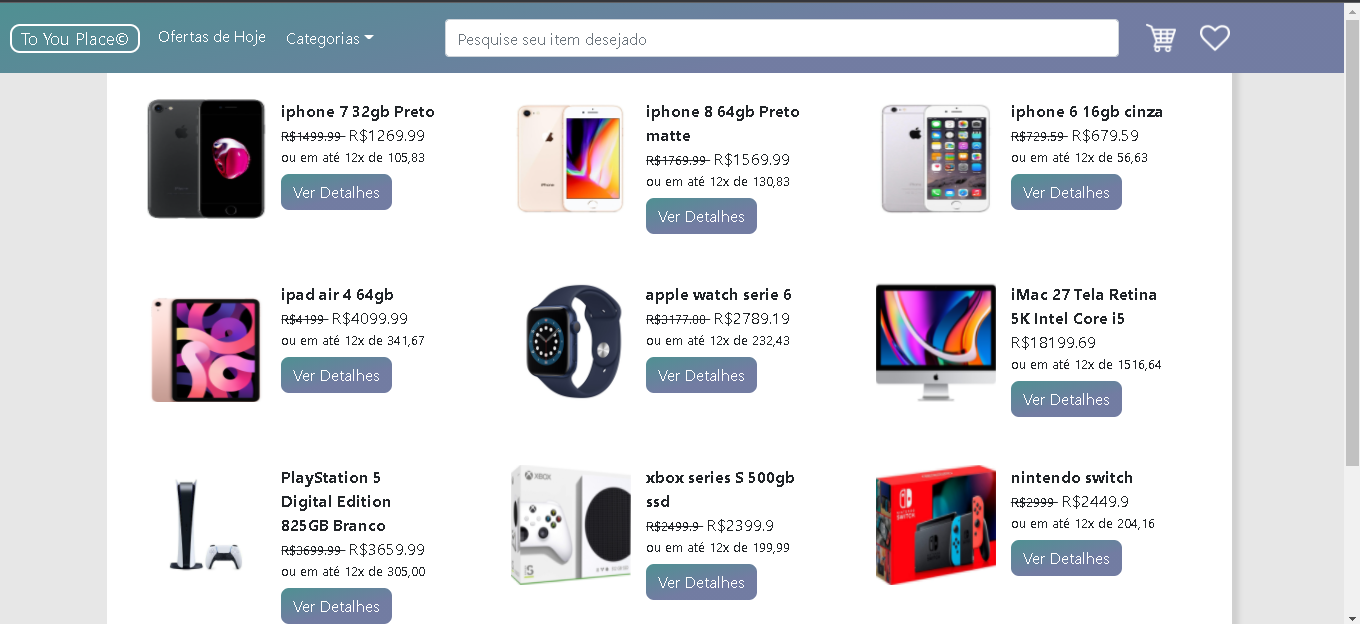
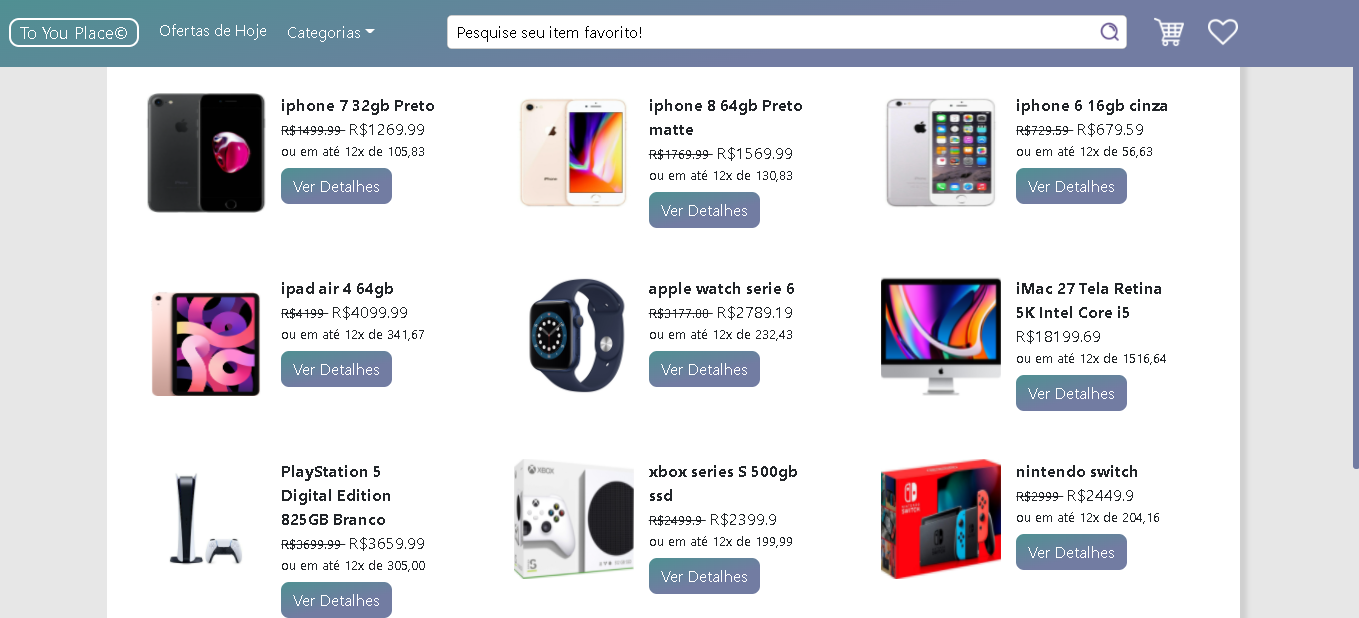
install vue-select; Ajusting input search in the navbar;

diff --git a/src/components/menu/navbar.vue b/src/components/menu/navbar.vue
@@ -20,9 +20,6 @@
           text="Categorias"
           class="m-md-2 dropdown"
         >
-          <b-dropdown-item>First Action</b-dropdown-item>
-          <b-dropdown-item>Second Action</b-dropdown-item>
-          <b-dropdown-item>Third Action</b-dropdown-item>
         </b-dropdown>
         
       </b-col>
@@ -31,7 +28,34 @@
         align-self="center"
         class="p-0"
       >
-        <b-form-input placeholder="Pesquise seu item desejado" />
+        <v-select
+          v-model="item"
+          :options="items"
+          placeholder="Pesquise seu item favorito!"
+          :dropdown-should-open="dropdownShouldOpen">
+
+          <template #open-indicator="{ attributes }">
+            <b-img src="../../assets/img/lupa.png" style="width: 20px;" v-bind="attributes" />
+          </template>
+
+            <template v-slot:no-options="{ search, searching }">
+              <template v-if="searching">
+                Não há resultados para {{ search }}.
+              </template>
+            </template>
+
+            <template v-slot:option="option">
+              <b-row @click="pushToItem(option._id)">
+                <b-col md="auto">
+                  <b-img style="width: 55px; height: 55px;" :src="option.photo[0]" />
+                </b-col>
+                <b-col>
+                  <span>{{option.label}}</span>
+                </b-col>
+              </b-row>
+            </template>
+        </v-select>
+        <!-- <b-form-input placeholder="Pesquise seu item desejado" /> -->
       </b-col>
       <b-col
         md="2"
@@ -91,11 +115,44 @@
 import {  mapGetters } from 'vuex'
 
 export default {
+  data() {
+    return {
+      item: null,
+      items: []
+    }
+  },
+
+  mounted(){
+    this.getProd.map(arr => {
+      this.items.push({
+        label: arr.item,
+        code: arr.item,
+        photo: arr.photo,
+        _id: arr._id
+      })
+    })
+  },
+
   computed: {
     ...mapGetters({
       getCart: 'app/getCart',
-      getFav: 'app/getFav'
+      getFav: 'app/getFav',
+      getProd: 'app/getProducts', 
       })
+  },
+
+  methods: {
+    pushToItem(val){
+      window.location.assign(`/produto/${val}`) 
+    },
+
+    dropdownShouldOpen(VueSelect) {
+      if (this.item !== null) {
+        return VueSelect.open
+      }
+
+      return VueSelect.search.length !== 0 && VueSelect.open
+    },
   },
 }
 

diff --git a/src/views/item.vue b/src/views/item.vue
@@ -51,7 +51,18 @@
             </b-col>
 
             <b-col md="4">
+
                 <div class="box-payment text-center">
+                    <b-row class="text-center p-2">
+                      <b-col>
+                        <span>
+                          <strong>
+                            {{getOneProd.inventory}}
+                          </strong>
+                          Unidades disponiveis. 
+                        </span>
+                      </b-col>
+                    </b-row>
                       <b-img v-if="!fav[0]" class="logo-fav text-left" src="../assets/img/favorito.png" @click="addtoFav(getOneProd)" />
                       <b-img v-else class="logo-fav text-left" src="../assets/img/favorito_2.png" @click="removeFav(getOneProd._id)" />&nbsp;&nbsp;&nbsp;
                     <strong class="value">

diff --git a/src/assets/scss/main.scss b/src/assets/scss/main.scss
@@ -30,3 +30,32 @@ ul {
 body {
   background: rgb(231, 231, 231);
 }
+
+
+::-webkit-scrollbar {
+  width: 7px;
+  height: 7px !important;
+  -webkit-border-radius: 16px;
+  border-radius: 16px;
+}
+
+::-webkit-scrollbar-track-piece {
+  background-color: rgba(217, 217, 217, 0);
+  -webkit-border-radius: 3px;
+  border-radius: 3px;
+}
+
+::-webkit-scrollbar-thumb:vertical {
+  height: 7px;
+  background-color: $menu-color2;
+  -webkit-border-radius: 3px;
+  border-radius: 3px;
+}
+
+::-webkit-scrollbar-thumb:horizontal {
+  width: 7px;
+  background-color: $menu-color2;
+  -webkit-border-radius: 3px;
+  border-radius: 3px;
+
+}

diff --git a/src/assets/scss/components/_vue_alert.scss b/src/assets/scss/components/_vue_alert.scss
@@ -1,5 +1,5 @@
 .swal2-confirm {
-  background-color: $primary !important;
+  background-color: $menu-color2 !important;
   &:focus {
     box-shadow: none !important;
   }
@@ -10,8 +10,8 @@
 
 .swal2-cancel {
   background-color: white !important;
-  color: $primary !important;
-  border: 1px solid $primary !important;
+  color: $menu-color2 !important;
+  border: 1px solid $menu-color2 !important;
   &:focus {
     box-shadow: none !important;
   }

diff --git a/src/assets/scss/components/_select.scss b/src/assets/scss/components/_select.scss
@@ -1,0 +1,20 @@
+.vs__search {
+  background: white !important;
+}
+
+.vs__open-indicator {
+  transform: none !important;
+}
+
+.v-select.vs--single.vs--searchable {
+  background: white !important;
+  border-radius: 5px;
+}
+
+#vs1__listbox li{
+  background: white !important;
+  color: black !important;
+  &:hover {
+    background: rgba(114, 124, 162, 0.452) !important;
+  }
+}

diff --git a/src/main.js b/src/main.js
@@ -6,6 +6,7 @@ import router from './router'
 import './libs/bootstrap'
 import './libs/axios'
 import './libs/vue-alert'
+import './libs/vue-select'
 
 Vue.config.productionTip = false
 require('./assets/scss/index.scss')

diff --git a/src/assets/scss/index.scss b/src/assets/scss/index.scss
@@ -4,3 +4,4 @@
 @import './main.scss';
 @import './components/index';
 @import './pages/index';
+@import './vue-select/vue-select';

diff --git a/src/libs/vue-select.js b/src/libs/vue-select.js
@@ -1,0 +1,4 @@
+import Vue from 'vue'
+import vSelect from 'vue-select'
+
+Vue.component('v-select', vSelect)

diff --git a/src/assets/scss/components/_index.scss b/src/assets/scss/components/_index.scss
@@ -2,3 +2,4 @@
 @import './dropdown';
 @import './buttons';
 @import './vue_alert';
+@import './select';

diff --git a/src/assets/scss/vue-select/_vue-select.scss b/src/assets/scss/vue-select/_vue-select.scss
@@ -1,0 +1,1 @@
+@import "../../../../node_modules/vue-select/src/scss/vue-select.scss";

diff --git a/README.md b/README.md
@@ -8,13 +8,16 @@
 <strong>Libs utilizadas:</strong><br>
 <p>- Vue-router;</p>
 <p>- Vue-simple-alert;</p>
+<p>- Vue-select;</p>
 <p>- Bootstrap-vue;</p>
 <p>- Axios;</p>
 <p>- Vuex;</p>
 <p>- Vuex-persist;</p>
 
+
 <br>
 <img src="./git_img/index.png"><br>
+<img src="./git_img/search.png"><br>
 <img src="./git_img/produto.png"><br>
 <img src="./git_img/favorito.png"><br>
 <img src="./git_img/confirmação_carrinho.png"><br>
